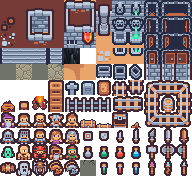
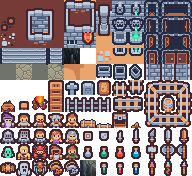
Stage 1: map — textured floors, wall depth, per-zone tint, richer dressing
The dungeons read as catacombs now instead of grey blocks floating in a void.

- env.png repacked from Asset_1/Map/Ground_rocks.png: floor slots 0-3 are now
  textured cobblestone (was one flat grey that dominated 86% of cells), 4-5 are
  cobble detail variants. Walls unchanged (dark rock face). pack-env.mjs drops
  the Water_coasts source and the dead tilesheet 40/48-51 patches.
- zones.ts buildMap(): wall cells get a lit top lip + darkened foot where they
  face open floor; floor cells take a drop-shadow cast by walls above / to the
  left (light from top-left). This is what makes 1-tile walls read as raised
  mass. render.ts swaps the flat dungeon dim for a cached radial vignette.
- genZone(): lone 1-tile wall nubs (floor on all four sides) are carved away —
  they were the "floating square" artifact.
- Per-zone colour wash: ZoneDef.tint ([r,g,b,a] multiply) baked onto Z.map so
  the five zones read distinct (ash grey / marsh green / ember orange / tower
  blue / fall red) without five tilesets.
- props.png 14 -> 22 (headstones, ribcages, ruined arches, dead trees, clawing
  hands). buildMap scatters grave plots + weighted props per room, denser, kept
  off the spawn tile; the camp gets rocks/trees only, no graves.

Claude-Session: https://claude.ai/code/session_014X4B4SoDMRBfk7ruwMj8NW

Changed region(s): [[0.4062, 0.9091, 0.5, 1.0]]

diff --git a/src/game/zones.ts b/src/game/zones.ts
@@ -9,16 +9,22 @@ import {
 } from "./core.ts";
 import { SHEET, ENVI, PROPI } from "./assets.ts";
 
-function fillFloor(w: number, h: number, hub: boolean): number[][] {
-  // Mostly the base cobble tile (0) with occasional detail (1-3). The old
-  // "random tile every cell" made the floor read as visual noise, and
-  // variants 4-5 (near-black / flat grey) punched holes in it.
-  const chance = hub ? 0.09 : 0.14;
+function fillFloor(w: number, h: number, _hub: boolean): number[][] {
+  // env.png 0-3 are cobble variants (the common floor), 4-5 are detail
+  // (worn flagstone / cracked cobble) stamped sparsely so the ground reads
+  // as textured stone rather than one flat colour.
   const v = Array.from({ length: h }, () => new Array<number>(w).fill(0));
   for (let y = 0; y < h; y++)
-    for (let x = 0; x < w; x++) v[y][x] = Math.random() < chance ? rnd(1, 3) : 0;
+    for (let x = 0; x < w; x++) {
+      const r = Math.random();
+      v[y][x] = r < 0.6 ? 0 : r < 0.84 ? rnd(1, 3) : r < 0.93 ? 4 : 5;
+    }
   return v;
 }
+
+const PROP_COMMON = 14; // props.png 0..13 are the common small props, 14+ landmarks
+const drawProp = (g: CanvasRenderingContext2D, idx: number, x: number, y: number): void =>
+  g.drawImage(PROPI, idx * 32, 0, 32, 32, x * TW - 8, y * TW - 18, 32, 32);
 
 export function buildMap(): void {
   const Z = W.Z;
@@ -29,29 +35,109 @@ export function buildMap(): void {
   c.height = Hd * TW;
   const g = c.getContext("2d")!;
   g.imageSmoothingEnabled = false;
+
+  const isWall = (x: number, y: number): boolean =>
+    x < 0 || y < 0 || x >= Wd || y >= Hd || Z.g[y][x] === 1;
+
+  // 1. base tile blit — floor from Z.var, walls hashed across env 6-9
   for (let y = 0; y < Hd; y++)
     for (let x = 0; x < Wd; x++) {
-      const idx =
-        Z.g[y][x] === 1 ? ENV.floors + ((x * 7 + y * 13) % ENV.walls) : Z.var[y][x];
+      const idx = Z.g[y][x] === 1 ? ENV.floors + ((x * 7 + y * 13) % ENV.walls) : Z.var[y][x];
       g.drawImage(ENVI, idx * 16, 0, 16, 16, x * TW, y * TW, TW, TW);
     }
+
+  // 2. wall depth — lit lip on the top edge, darkened foot on the bottom face
+  for (let y = 0; y < Hd; y++)
+    for (let x = 0; x < Wd; x++) {
+      if (Z.g[y][x] !== 1) continue;
+      const px = x * TW;
+      const py = y * TW;
+      if (!isWall(x, y - 1)) {
+        g.fillStyle = "rgba(126,130,158,.45)";
+        g.fillRect(px, py, TW, 2);
+        g.fillStyle = "rgba(0,0,0,.22)";
+        g.fillRect(px, py + 2, TW, 2);
+      }
+      if (!isWall(x, y + 1)) {
+        const grd = g.createLinearGradient(0, py + TW * 0.35, 0, py + TW);
+        grd.addColorStop(0, "rgba(0,0,0,0)");
+        grd.addColorStop(1, "rgba(0,0,0,.45)");
+        g.fillStyle = grd;
+        g.fillRect(px, py + TW * 0.35, TW, TW * 0.65);
+      }
+    }
+
+  // 3. drop shadow cast onto the floor by walls above / to the left
+  for (let y = 0; y < Hd; y++)
+    for (let x = 0; x < Wd; x++) {
+      if (Z.g[y][x] !== 0) continue;
+      const px = x * TW;
+      const py = y * TW;
+      if (isWall(x, y - 1)) {
+        const grd = g.createLinearGradient(0, py, 0, py + TW * 0.75);
+        grd.addColorStop(0, "rgba(0,0,0,.42)");
+        grd.addColorStop(1, "rgba(0,0,0,0)");
+        g.fillStyle = grd;
+        g.fillRect(px, py, TW, TW * 0.75);
+      }
+      if (isWall(x - 1, y)) {
+        const grd = g.createLinearGradient(px, 0, px + TW * 0.6, 0);
+        grd.addColorStop(0, "rgba(0,0,0,.3)");
+        grd.addColorStop(1, "rgba(0,0,0,0)");
+        g.fillStyle = grd;
+        g.fillRect(px, py, TW * 0.6, TW);
+      }
+    }
+
+  // 4. rubble piled where a wall foot meets open floor
   for (let y = 1; y < Hd - 1; y++)
     for (let x = 0; x < Wd; x++)
-      if (Z.g[y][x] === 1 && Z.g[y + 1][x] === 0 && Math.random() < 0.03) {
+      if (Z.g[y][x] === 1 && Z.g[y + 1][x] === 0 && Math.random() < 0.05) {
         const [sx, sy] = tsrc(125);
-        g.drawImage(SHEET, sx, sy, TW, TW, x * TW, y * TW, TW, TW);
+        g.drawImage(SHEET, sx, sy, TW, TW, x * TW, y * TW + TW * 0.55, TW, TW * 0.8);
       }
-  // graveyard decorations — a handful per room, hugging the walls
+
+  // 5. graveyard dressing — grave plots + scattered props, hugging the walls
+  const spawnX = Math.round(P.x);
+  const spawnY = Math.round(P.y);
   (Z.rooms || []).forEach((r) => {
-    const n = clamp(Math.round((r.w * r.h) / 70), 1, 4);
+    const inFloor = (x: number, y: number): boolean =>
+      y >= 0 && y < Hd && x >= 0 && x < Wd && Z.g[y][x] === 0 &&
+      (Math.abs(x - spawnX) > 3 || Math.abs(y - spawnY) > 3);
+
+    if (!Z.hub && Math.random() < 0.42) {
+      // a row of headstones tucked against one wall
+      const gy = Math.random() < 0.5 ? r.y + 2 : r.y + r.h - 3;
+      const gx0 = rnd(r.x + 2, Math.max(r.x + 2, r.x + r.w - 5));
+      for (let i = 0, n = rnd(2, 4); i < n; i++) if (inFloor(gx0 + i, gy)) drawProp(g, rnd(0, 5), gx0 + i, gy);
+    }
+
+    const n = clamp(Math.round((r.w * r.h) / (Z.hub ? 150 : 40)), Z.hub ? 1 : 3, Z.hub ? 3 : 9);
     for (let i = 0; i < n; i++) {
       const x = rnd(r.x + 1, r.x + r.w - 2);
       const y = rnd(r.y + 1, r.y + r.h - 2);
       const edge = x <= r.x + 2 || x >= r.x + r.w - 3 || y <= r.y + 2 || y >= r.y + r.h - 3;
-      if (!edge || Z.g[y][x] === 1) continue;
-      g.drawImage(PROPI, rnd(0, ENV.props - 1) * 32, 0, 32, 32, x * TW - 8, y * TW - 18, 32, 32);
+      if (!inFloor(x, y) || (!edge && Math.random() < 0.55)) continue;
+      const idx = Z.hub
+        ? pick([10, 11, 15, 19, 20]) // camp: rocks + a dead tree, no graves
+        : edge && Math.random() < 0.22
+          ? rnd(PROP_COMMON, ENV.props - 1)
+          : rnd(0, PROP_COMMON - 1);
+      drawProp(g, idx, x, y);
     }
   });
+
+  // 6. per-zone colour wash so the five zones read distinct
+  const tint = (Z.d as ZoneDef).tint;
+  if (tint) {
+    g.save();
+    g.globalCompositeOperation = "multiply";
+    g.globalAlpha = tint[3];
+    g.fillStyle = `rgb(${tint[0]},${tint[1]},${tint[2]})`;
+    g.fillRect(0, 0, c.width, c.height);
+    g.restore();
+  }
+
   Z.map = c;
 }
 
@@ -121,6 +207,12 @@ export function genZone(zi: number): void {
       corr.push([b.cx, y]);
     }
   }
+  // drop lone 1-tile wall nubs left between rooms/corridors — surrounded by
+  // floor on all four sides they read as debris, not structure
+  for (let y = 1; y < Hd - 1; y++)
+    for (let x = 1; x < Wd - 1; x++)
+      if (g[y][x] === 1 && !g[y - 1][x] && !g[y + 1][x] && !g[y][x - 1] && !g[y][x + 1]) g[y][x] = 0;
+
   const mobs: Mob[] = [];
   for (let p = 0; p < D.packs; p++) {
     let bx: number;

diff --git a/src/game/core.ts b/src/game/core.ts
@@ -19,7 +19,7 @@ export const $ = (id: string): HTMLElement => {
 export const TW = 16;
 export const COLS = 12;
 export const HF = 64; // hero frame size
-export const ENV = { floors: 6, walls: 4, props: 14 } as const;
+export const ENV = { floors: 6, walls: 4, props: 22 } as const;
 export const ANIM = {
   idle: { row: 0, n: 4, fps: 6 },
   walk: { row: 1, n: 6, fps: 13 },
@@ -141,14 +141,17 @@ export interface ZoneDef {
   w: number;
   h: number;
   rooms: number;
+  /** [r,g,b,a] multiply wash baked onto the tilemap so each zone reads
+   *  distinct without a per-zone tileset. undefined = no wash. */
+  tint?: [number, number, number, number];
 }
 
 export const ZONES: ZoneDef[] = [
-  { name: "جوف الرماد", ilvl: 1, packs: 9, boss: "حارس الجوف", kinds: ["slime", "bat"], bossTile: MOBS.demon, w: 76, h: 76, rooms: 14 },
-  { name: "خراب المستنقع المالح", ilvl: 9, packs: 11, boss: "الكاهن الغريق", kinds: ["worm", "spider"], bossTile: MOBS.ghost, w: 84, h: 84, rooms: 16 },
-  { name: "قبو الجمر", ilvl: 18, packs: 13, boss: "آلة القبو", kinds: ["dwarf", "mummy"], bossTile: MOBS.dwarf, w: 92, h: 92, rooms: 18 },
-  { name: "البرج الباكي", ilvl: 28, packs: 15, boss: "سيراف البرج", kinds: ["ghost", "bat"], bossTile: MOBS.ghost, w: 98, h: 98, rooms: 20 },
-  { name: "سقوط الجمر", ilvl: 40, packs: 17, boss: "الجمرة الأخيرة", kinds: ["demon", "mummy"], bossTile: MOBS.demon, w: 104, h: 104, rooms: 22 },
+  { name: "جوف الرماد", ilvl: 1, packs: 9, boss: "حارس الجوف", kinds: ["slime", "bat"], bossTile: MOBS.demon, w: 76, h: 76, rooms: 14, tint: [200, 206, 224, 0.1] },
+  { name: "خراب المستنقع المالح", ilvl: 9, packs: 11, boss: "الكاهن الغريق", kinds: ["worm", "spider"], bossTile: MOBS.ghost, w: 84, h: 84, rooms: 16, tint: [150, 176, 120, 0.24] },
+  { name: "قبو الجمر", ilvl: 18, packs: 13, boss: "آلة القبو", kinds: ["dwarf", "mummy"], bossTile: MOBS.dwarf, w: 92, h: 92, rooms: 18, tint: [232, 150, 88, 0.22] },
+  { name: "البرج الباكي", ilvl: 28, packs: 15, boss: "سيراف البرج", kinds: ["ghost", "bat"], bossTile: MOBS.ghost, w: 98, h: 98, rooms: 20, tint: [140, 170, 216, 0.22] },
+  { name: "سقوط الجمر", ilvl: 40, packs: 17, boss: "الجمرة الأخيرة", kinds: ["demon", "mummy"], bossTile: MOBS.demon, w: 104, h: 104, rooms: 22, tint: [210, 92, 70, 0.26] },
 ];
 
 export interface Room { x: number; y: number; w: number; h: number; cx: number; cy: number }

diff --git a/src/game/render.ts b/src/game/render.ts
@@ -18,6 +18,20 @@ export function resize(): void {
 }
 addEventListener("resize", resize);
 
+let vigKey = "";
+let vig: CanvasGradient | null = null;
+function vignette(w: number, h: number): CanvasGradient {
+  const key = w + "x" + h;
+  if (key !== vigKey || !vig) {
+    const g = ctx.createRadialGradient(w / 2, h / 2, Math.min(w, h) * 0.35, w / 2, h / 2, Math.max(w, h) * 0.72);
+    g.addColorStop(0, "rgba(7,8,11,0)");
+    g.addColorStop(1, "rgba(7,8,11,.55)");
+    vig = g;
+    vigKey = key;
+  }
+  return vig;
+}
+
 function ent(i: number, cx: number, cy: number, sz: number, flip: boolean): void {
   const [sx, sy] = tsrc(i);
   ctx.save();
@@ -70,7 +84,9 @@ export function draw(): void {
     ctx.drawImage(Z.map, camx * s, camy * s, w * s, h * s, 0, 0, w, h);
   }
   if (!Z.hub) {
-    ctx.fillStyle = "rgba(7,8,11,.26)";
+    ctx.fillStyle = "rgba(7,8,11,.2)";
+    ctx.fillRect(0, 0, w, h);
+    ctx.fillStyle = vignette(w, h);
     ctx.fillRect(0, 0, w, h);
   }
   const SX = (x: number) => Math.round(x * TS - camx);

diff --git a/src/assets/CREDITS.md b/src/assets/CREDITS.md
@@ -5,12 +5,15 @@ below are this repo's; original pack names are noted per source.
 
 ## Kenney — CC0
 
-- `tilesheet.png` — Kenney **Tiny Dungeon** tileset (chest, stash, anvil, gate,
-  potion, monster tiles, NPC portraits). The floor/wall cells it also carried
-  (40, 48–51, and the 125 rubble tile) are now re-skinned from CraftPix — see
-  below. The `ui-panel.png` / `ui-button.png` / `ui-button-active.png` 9-slices
-  that used to come from Kenney's **Pixel UI Pack** are now packed from
-  CraftPix's Ui pack instead (see below) — Kenney's UI pack is no longer used.
+- `tilesheet.png` — Kenney **Tiny Dungeon** tileset, now only the monster tiles
+  and NPC portraits. The chest / chest-open / stash / anvil / gate / stump cells
+  are re-skinned from the CraftPix "All Tileset" camp pack by
+  `scripts/pack-tileset-objects.mjs`; the floor/wall cells it carried (40, 48–51)
+  are unused dead constants and the 125 rubble cell is re-skinned by
+  `scripts/pack-env.mjs` — see below. The `ui-panel.png` / `ui-button.png` /
+  `ui-button-active.png` 9-slices that used to come from Kenney's **Pixel UI
+  Pack** are now packed from CraftPix's Ui pack instead (see below) — Kenney's
+  UI pack is no longer used.
 
 CC0 — public domain, no restrictions, attribution not required. Credited anyway:
 [kenney.nl](https://kenney.nl).
@@ -21,12 +24,15 @@ CC0 — public domain, no restrictions, attribution not required. Credited anywa
 - `hero1/2/3.png` — Swordsman lvl1-3, packed by `scripts/pack-hero.mjs`.
 - `weapons.png`, `potions.png` — `scripts/pack-icons.mjs`.
 - `mobs.png` — `scripts/pack-mobs.mjs` (8 monster icons).
-- `props.png` — `scripts/pack-props.mjs` (14 graveyard decorations).
+- `props.png` — `scripts/pack-props.mjs` (22 graveyard decorations: headstones,
+  bones, ruined arches, dead trees, clawing hands — from
+  `Asset_1/Map/Objects_separately/`).
 - `fx_fire/burst/ice.png` — `scripts/pack-fx.mjs` (10-frame effect strips).
-- `env.png` — `scripts/pack-env.mjs`: the dungeon ground strip (grey flagstone +
-  tan cobblestone floors, dark cave-rock walls) from `Asset_1/Map/Water_coasts.png`
-  and `Asset_1/Map/Ground_rocks.png`. The same script re-skins the floor/wall
-  cells still read from `tilesheet.png` (40, 48–51, 125) to match.
+- `env.png` — `scripts/pack-env.mjs`: the dungeon ground strip (tan/grey
+  cobblestone floors + detail, dark cave-rock walls) from
+  `Asset_1/Map/Ground_rocks.png`. The same script re-skins the `tilesheet.png`
+  cell 125 (wall-base rubble) to match. `src/game/zones.ts` `buildMap()` adds the
+  drop-shadows, wall lip/face shading and per-zone colour wash in code.
 - `ui-panel.png`, `ui-button.png`, `ui-button-active.png`, `ui-icons.png` —
   `scripts/pack-ui.mjs`: blank, text-free panel/button/icon pieces from the
   CraftPix **Ui** pack (`Asset_1/Ui/`), recolored from its stock green/tan
